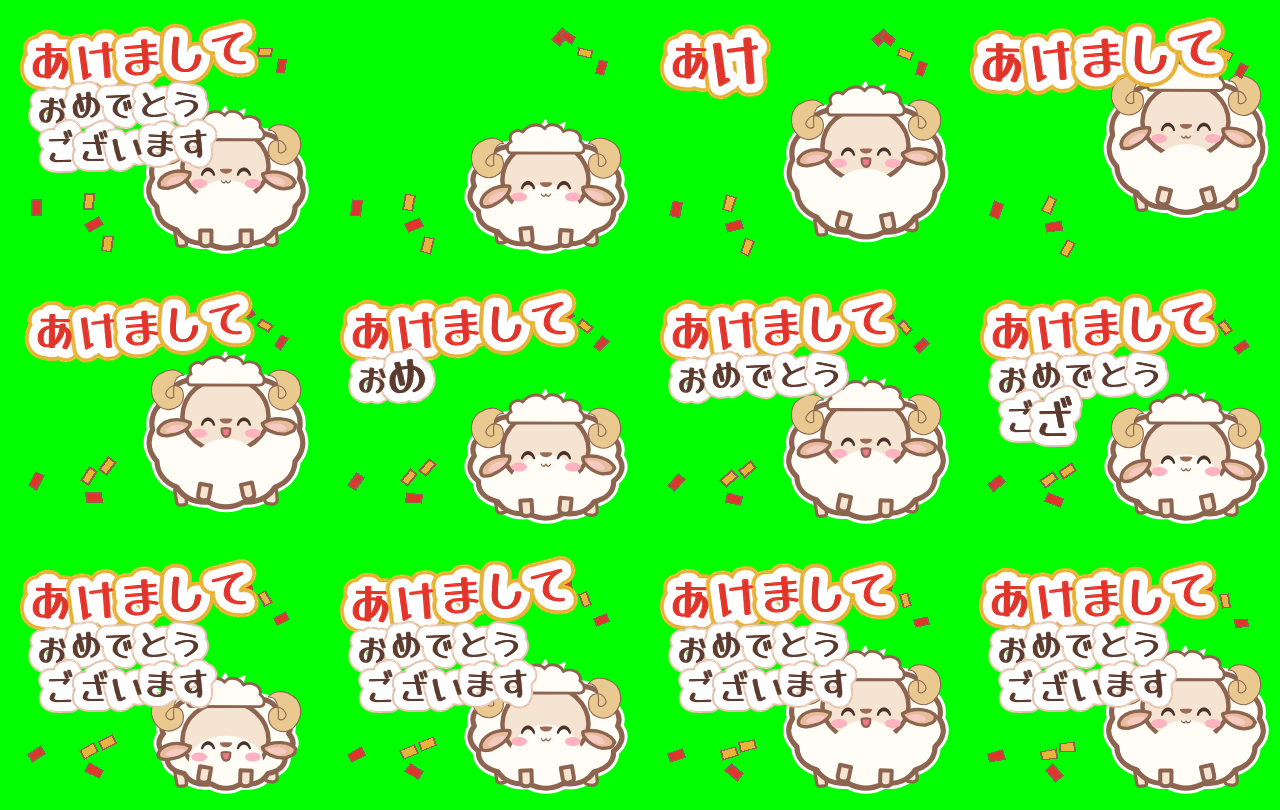
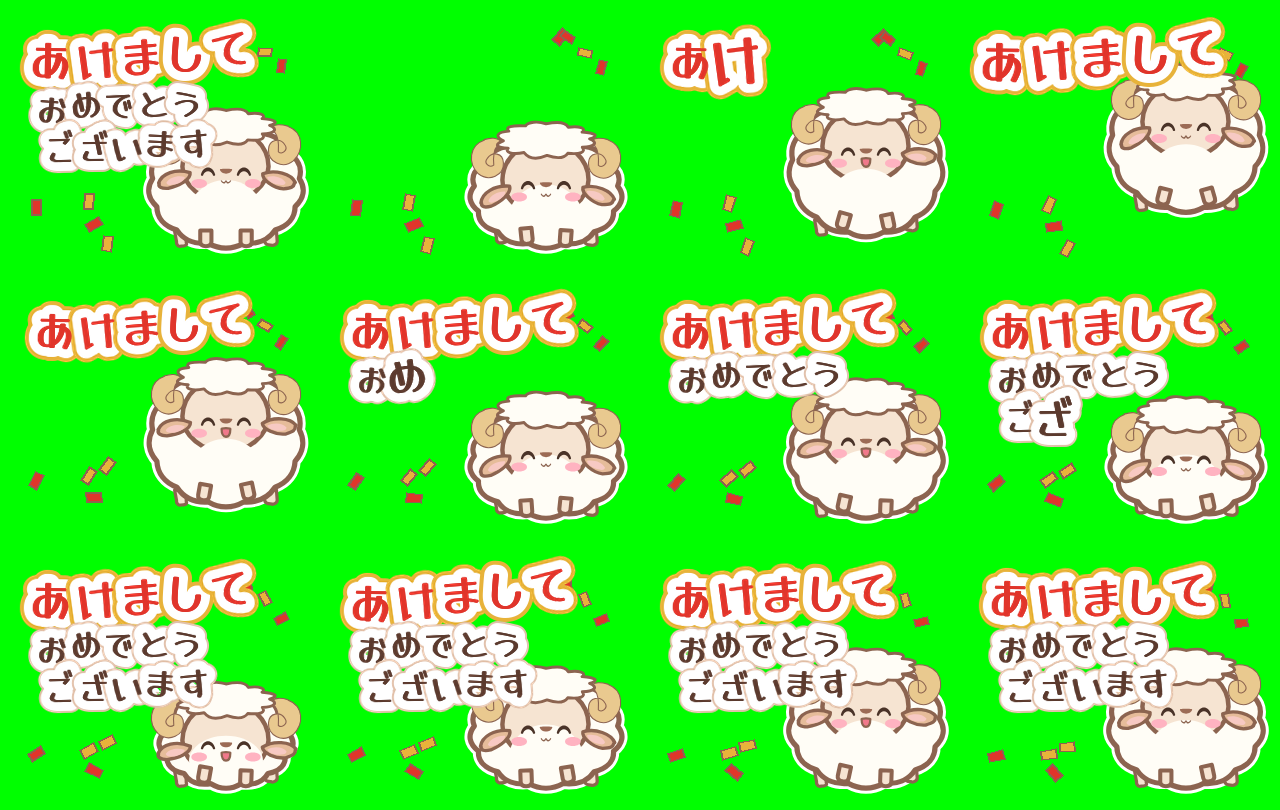
set03: ひつじの前髪を顔と一緒に動かし、全部もこもこにする
Claude-Session: https://claude.ai/code/session_01RfomAZL54wRevPjVr3cHPk

diff --git a/tools/newyear.py b/tools/newyear.py
@@ -151,7 +151,7 @@ def sheep(c):
     - 前足(インコの羽の部品を足にする)と後ろ足: はだ色の足と、こげ茶のひづめ。肩を支点に動くのはそのまま
     顔まわりは鼻(P14)の位置から、前髪・角は頭(P1)の位置から置くので、おじぎやジャンプについて行く。"""
     fx, fy = face_off(c)
-    hx, hy = head_off(c)
+    hx, hy = fx, fy  # 前髪・角も顔と同じだけ動かす(頭の毛 P1 のずれは顔とちがうので使わない)
     for k in ("P0", "P4"):  # 体を横に広い毛のかたまりにする
         e = c[k]
         w = min(e["h"] * 1.35, 138)
@@ -159,7 +159,7 @@ def sheep(c):
         e.update(w=w, left=cx - w / 2, vw=w, vh=e["h"])
     c["P4"]["fill"] = WOOL
     c["P5"].update(fill=WOOL)
-    c["P1"].update(fill=WOOL, sw=0, stroke=None, w=1, h=1)  # 頭の毛は前髪にまとめるので消す
+    c.pop("P1", None)  # インコの頭の毛は使わない(前髪にまとめる)
     # 足: 毛のかたまりの下から、短い4本の足をのぞかせる(前足は体の前、後ろ足は体の後ろ)。
     # インコの羽のように体の前に垂らさない。前足は付け根を支点に ARMS の角度(小さめ)で動く
     bottom = c["P4"]["top"] + c["P4"]["h"]
@@ -175,7 +175,9 @@ def sheep(c):
     c["ACC1_hornL"].update(vw=112, vh=112)
     add(c, "ACC2_hornR", "#E9C98F", inko.INK, 2, 42, 42, 188 + hx, 140 + hy, HORN_SET[1], rot=-HORN_ROT)  # 左の角の鏡うつし
     c["ACC2_hornR"].update(vw=112, vh=112)
-    add(c, "ACC3_fringe", WOOL, inko.INK, 2, 76, 30, 122 + hx, 128 + hy, CLOUD_FRINGE)
+    # 前髪: 下のふちも含めて、ぐるりと全部もこもこにする
+    add(c, "ACC3_fringe", WOOL, inko.INK, 2, 82, 34, 119 + hx, 126 + hy, _scallop(82, 34, bumps=12, depth=3.4))
+    c["ACC3_fringe"].update(vw=82, vh=34)
     # 目は小さく(あとで soften が 1.4 倍にするので、先に小さくしておく)・ほっぺは顔の内側へ
     for k in ("P8", "P9", "P10", "P11"):
         if k in c:

diff --git a/docs/stamp_rules.md b/docs/stamp_rules.md
@@ -46,6 +46,8 @@ set01「ていねいインコ」で、ユーザーと品質チェックから受
 | 3.5-4 | 鼻とほっぺの色は分ける(鼻はこげ茶、ほっぺはピンク) | set03「鼻とほっぺたの色を分ける」 |
 | 3.5-5 | 角などの目印は大きく、頭にしっかり付ける(前髪の下から生やす)。体から離して浮かせない | set03「角を大きくして」 |
 | 3.5-6 | ひつじの角は、こめかみ(前髪の両わき)から生やし、外へ張り出してから下へ回り、先が顔の側(内側)へ巻き込む向きにする。左右は鏡うつし。耳は角の下から横に出す。向きは何通りか描き比べてから決める | set03「角の位置がおかしくない?」「内側に回るようにして」 |
+| 3.5-9 | 顔まわりの部品(前髪・角・耳・顔)は、すべて同じ基準(顔のずれ)で動かす。基準がちがうと、おじぎやジャンプで前髪だけずれる | set03「頭のもこもこが動いた時に連動していない」 |
+| 3.5-10 | もこもこの部品は、ふちをぐるりと全部もこもこにする。下や横を直線で切らない | set03「頭のモコモコの下部が直線」 |
 | 3.5-8 | 左右で対になる部品(角・耳など)は、片方を鏡うつしにした形と角度で作る。同じ形を回しただけで済ませない。手描きの揺れで形がずれないよう、座標を大きくしたパスを使う | set03「左の角と右の角度、形が違う」 |
 | 3.5-7 | 顔の輪郭は体より太い線にする(顔が毛に埋もれないように)。目は小さくしすぎない | set03「顔の輪郭をもう少し太く」「目を少し大きく」 |
 

diff --git a/work/set03/qa.md b/work/set03/qa.md
@@ -49,3 +49,8 @@
 ## 直し(2026-11-01): 角を内側に巻く
 
 - 角の向きを6通り描き比べ、外へ張り出してから下へ回り、先が顔の側へ巻き込む形を選んだ(左右は鏡うつし)。
+
+## 直し(2026-11-01): 頭のもこもこ
+
+- 前髪と角を、顔と同じ基準(鼻の位置のずれ)で動かすようにした。前は頭の毛の位置を基準にしていて、おじぎ・ジャンプで顔とずれていた。
+- 前髪を、下のふちも含めてぐるりと全部もこもこの形にした。使っていないインコの頭の毛の部品は消した。
